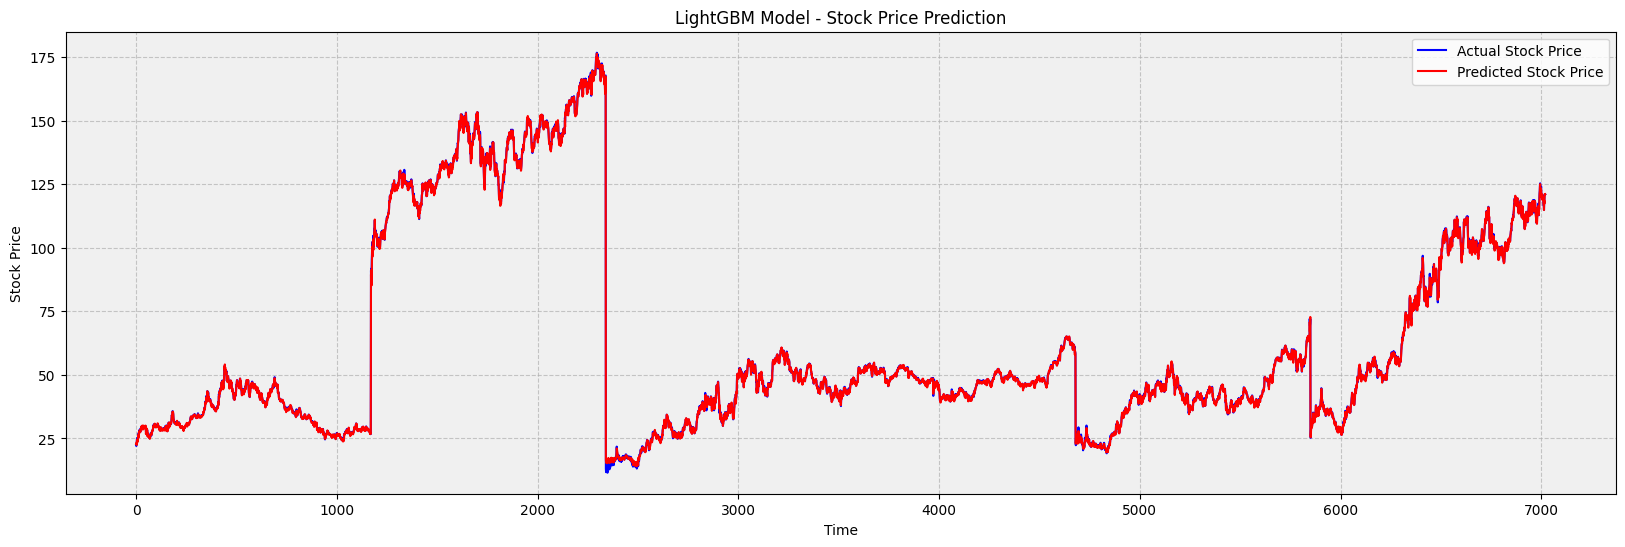
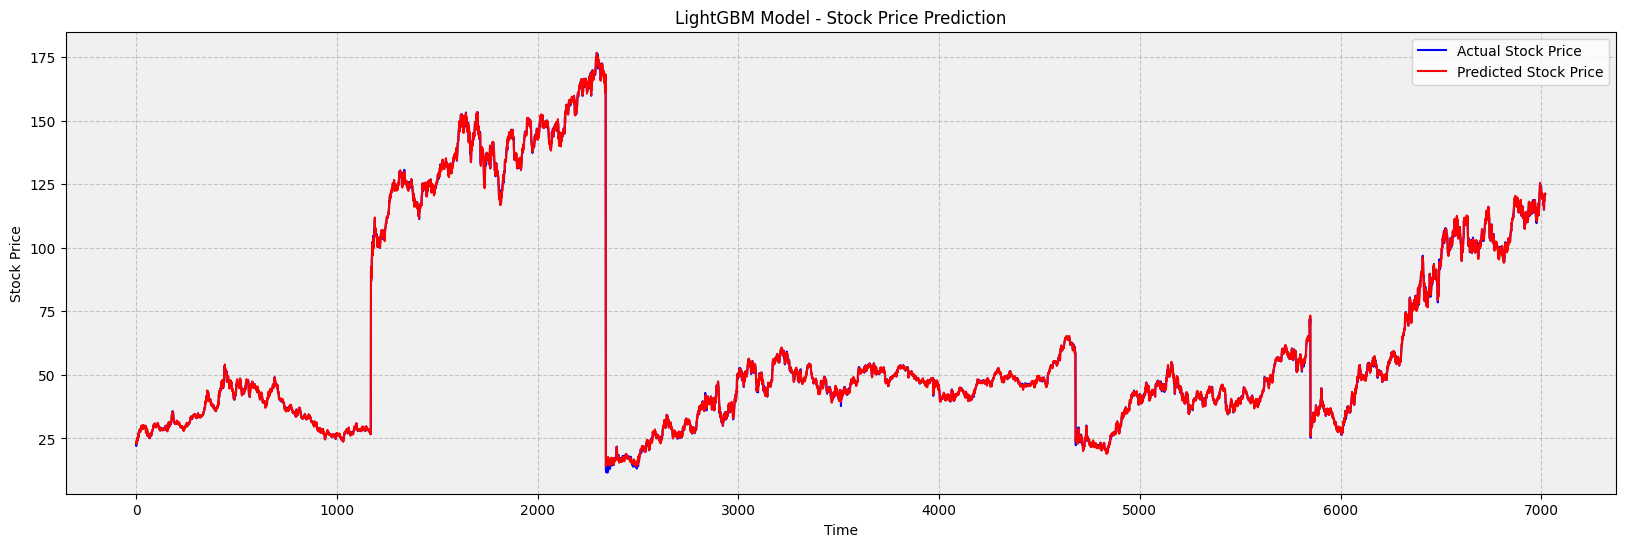
updating the LGB model initialization parameters and associated data

diff --git a/Pages/Project.py b/Pages/Project.py
@@ -895,7 +895,8 @@ with st.container(border=True):
     st.markdown('''
     They both generalize well, but the model with the selected features using RFE performs slightly better than the model without RFE.
     ''')
-
+    
+# XGBoost
     st.markdown('''
     ### XGBoost
     ''')
@@ -1065,7 +1066,7 @@ with st.container(border=True):
     st.write('XGBoost Cross-validated RMSE scores with RFE: [36.37942185  1.26875895 27.90646695  4.63165039  6.83074724]')
     st.write('Mean RMSE with RFE: 15.403409076335384')
 
-
+# LightGBM
     st.markdown('''
     ### LightGBM
     ''')
@@ -1074,12 +1075,8 @@ with st.container(border=True):
     import lightgbm as lgb
 
     # Initialize LightGBM model
-    lgb_model = lgb.LGBMRegressor(
-    objective="quantile",
-    alpha=0.3,  # Adjust this quantile based on performance (e.g., 0.5 for median)
-    learning_rate=0.01,
-    n_estimators=1000)
-    
+    lgb_model = lgb.LGBMRegressor(n_estimators=2000, learning_rate=0.05, random_state=42)
+
     # Fit the model
     lgb_model.fit(X_train, y_train)
 
@@ -1179,26 +1176,22 @@ with st.container(border=True):
     ''')
     
     st.code('''
-            # Select top features (from RFE or feature importance analysis)
-    selected_features = rfe_lgb_ranking[rfe_lgb_ranking['Ranking'] <= 8]['Feature'].tolist()
+    
+    # Select top features (from RFE or feature importance analysis)
+    selected_features = rfe_lgb_ranking[rfe_lgb_ranking['Ranking'] <= 18]['Feature'].tolist()
 
     # Train the model with selected features
     X_train_selected = X_train[selected_features]
     X_test_selected = X_test[selected_features]
 
     # Initialize LightGBM model
-    lgb_model2 = lgb.LGBMRegressor(
-        objective="quantile",
-        alpha=0.3,  # Adjust this quantile based on performance (e.g., 0.5 for median)
-        learning_rate=0.01,
-        n_estimators=1000
-    )
+    lgb_model = lgb.LGBMRegressor(n_estimators=1000, learning_rate=0.03, random_state=42)
 
     # Fit the model
-    lgb_model2.fit(X_train_selected, y_train)
+    lgb_model.fit(X_train_selected, y_train)
 
     # Predict on the test data
-    lgb_predictions = lgb_model2.predict(X_test_selected)
+    lgb_predictions = lgb_model.predict(X_test_selected)
 
     # Evaluate the model
     lgb_mae = mean_absolute_error(y_test, lgb_predictions)
@@ -1212,7 +1205,7 @@ with st.container(border=True):
         evaluation_df.loc[evaluation_df['Model'] == model_name, ['MAE', 'MSE', 'RMSE', 'R2']] = [lgb_mae, lgb_mse, lgb_rmse, lbg_r2]
     else:
         evaluation_df.loc[len(evaluation_df)] = [model_name, lgb_mae, lgb_mse, lgb_rmse, lbg_r2]
-    evaluation_df)
+    evaluation_df
     ''')
     
     url11b = "https://raw.githubusercontent.com/Sami-Alyasin/Crystal-Stockball/main/data/evaluation_df5a.csv"
@@ -1223,17 +1216,28 @@ with st.container(border=True):
     st.dataframe(df11b)
     
     st.code('''
+    from sklearn.model_selection import TimeSeriesSplit, cross_val_score
+
+    # Initialize TimeSeriesSplit
+    tscv = TimeSeriesSplit(n_splits=5)
     # Perform cross-validation
     cv_scores_lgb = cross_val_score(lgb_model, X_train, y_train, cv=tscv, scoring='neg_mean_squared_error')
+    cv_scores_lgb_rfe = cross_val_score(lgb_model, X_train_selected, y_train, cv=tscv, scoring='neg_mean_squared_error')
 
     # Convert negative MSE to positive RMSE
     cv_rmse_lgb = np.sqrt(-cv_scores_lgb)
+    cv_rmse_lgb_rfe = np.sqrt(-cv_scores_lgb_rfe)
+
     print(f"LightGBM Cross-validated RMSE scores: {cv_rmse_lgb}")
     print(f"Mean RMSE: {cv_rmse_lgb.mean()}")
+    print(f"LightGBM Cross-validated RMSE scores with RFE: {cv_rmse_lgb_rfe}")
+    print(f"Mean RMSE with RFE: {cv_rmse_lgb_rfe.mean()}")
     ''')
 
-    st.write('LightGBM Cross-validated RMSE scores: [44.54512687  4.63374326 32.73412673  9.54476619  7.68359448]')
-    st.write('Mean RMSE: 19.828271506889116')
+    st.write('LightGBM Cross-validated RMSE scores: [36.60844141  1.2342131  28.28350553  5.62404162  6.48324805]')
+    st.write('Mean RMSE: 15.646689943115396')
+    st.write('LightGBM Cross-validated RMSE scores with RFE: [37.75452748  1.07850193 30.04420019  5.57475263  5.12586179]')
+    st.write('Mean RMSE with RFE: 15.915568803995626')
 
     st.markdown('''
     ### Hyperparameter tuning
